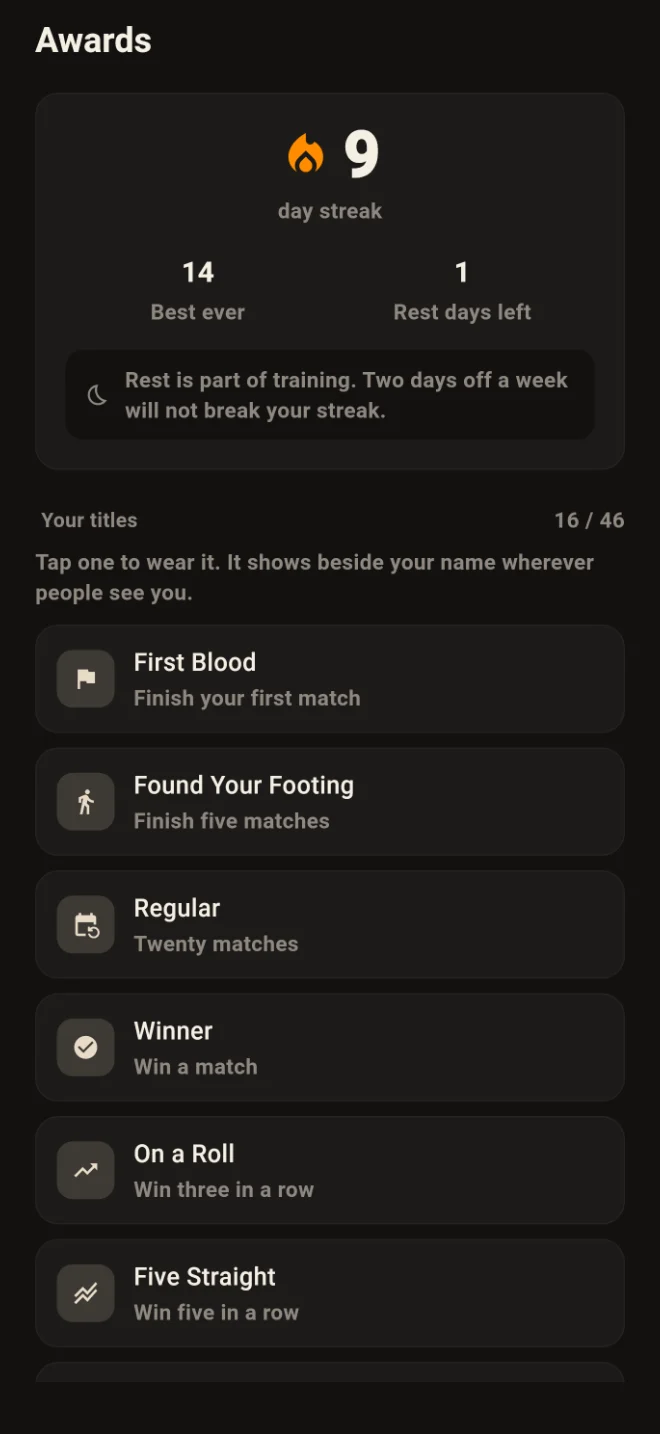
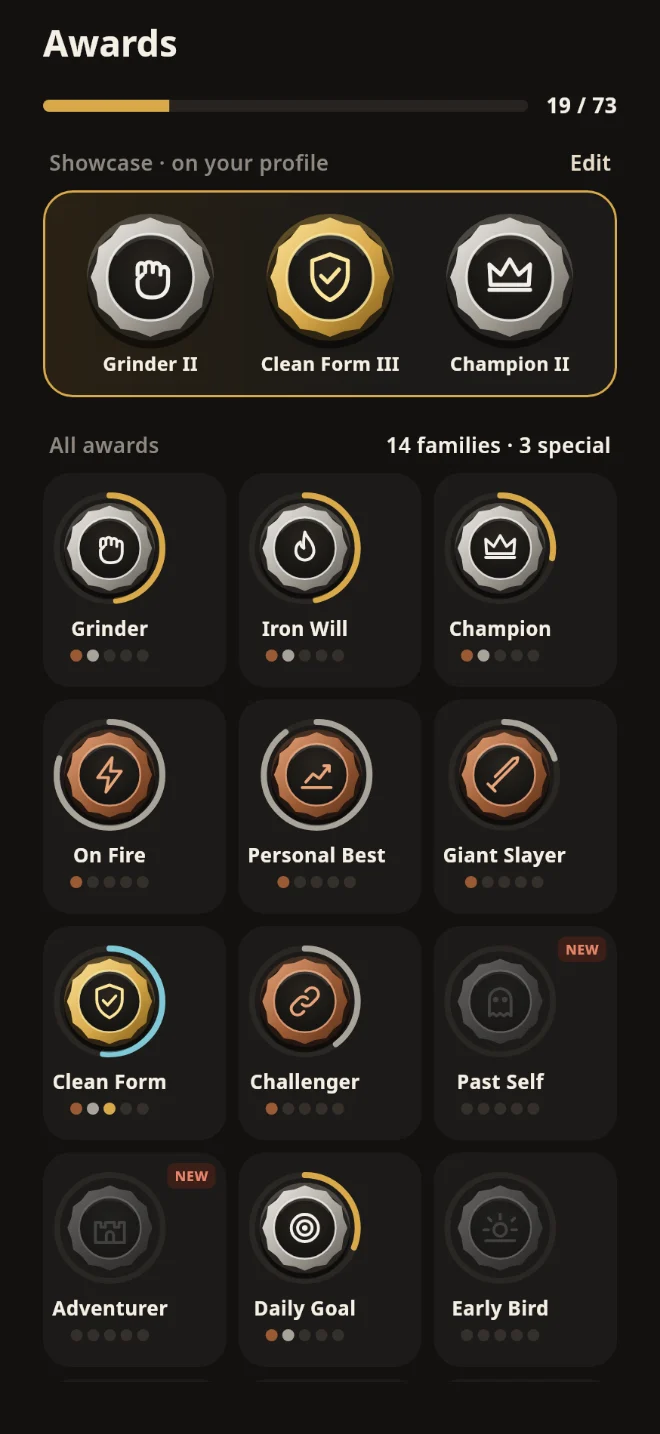
Site: a new link preview, the awards as medals, and the rating in the description
- The preview shared links show is og-2.jpg, a new name so apps fetch it
  again: the first screen as it is now, with the live match, the rating,
  the plan, the challenge link and the level. The old one said +7 LP.
  Profile links fall back to it too.
- The Titles tile is Awards now: fourteen families from Bronze to Diamond,
  three rare ones, and three pinned to the profile. The gallery shows the
  new cabinet.
- The description says rating, not rank points.
- The privacy page names the awards a lifter pins, which other players
  see.

diff --git a/index.html b/index.html
@@ -12,18 +12,18 @@
   <meta property="og:type" content="website">
   <meta property="og:url" content="https://www.outrepd.com/">
   <meta property="og:title" content="OUTREPD: Live 1v1 Push-Up Challenge App">
-  <meta property="og:description" content="Race real people at push-ups for 60 seconds. Your phone's camera counts every full rep, and the winner takes the rank points.">
+  <meta property="og:description" content="Race real people at push-ups for 60 seconds. Your phone's camera counts every full rep, and the winner takes the rating.">
   <meta property="og:site_name" content="OUTREPD">
   <meta name="twitter:title" content="OUTREPD: Live 1v1 Push-Up Challenge App">
   <meta name="twitter:description" content="Race real people at push-ups for 60 seconds. Your phone's camera counts every full rep.">
-  <meta property="og:image" content="https://www.outrepd.com/assets/home/og.jpg">
+  <meta property="og:image" content="https://www.outrepd.com/assets/home/og-2.jpg">
   <meta property="og:image:width" content="1200">
   <meta property="og:image:height" content="630">
   <meta name="twitter:card" content="summary_large_image">
-  <meta name="twitter:image" content="https://www.outrepd.com/assets/home/og.jpg">
+  <meta name="twitter:image" content="https://www.outrepd.com/assets/home/og-2.jpg">
   <meta name="apple-itunes-app" content="app-id=6817853725">
   <script type="application/ld+json">
-  [{"@context":"https://schema.org","@type":"MobileApplication","name":"OUTREPD","alternateName":"OUTREPD: Push-Up Battles","operatingSystem":"iOS, Android","applicationCategory":"HealthApplication","applicationSubCategory":"Fitness game","inLanguage":["en","es","de","fr","it","pt","ru","tr","hi","id","ja","ko","zh"],"offers":{"@type":"Offer","price":"0","priceCurrency":"USD"},"description":"Live 1v1 push-up challenges counted by your phone's camera, a 140-level Adventure and a ranked ladder from Iron to Master.","image":"https://www.outrepd.com/assets/home/og.jpg","url":"https://www.outrepd.com/","installUrl":"https://apps.apple.com/app/id6817853725","publisher":{"@type":"Organization","name":"MK Labs"},"sameAs":["https://apps.apple.com/app/id6817853725","https://play.google.com/store/apps/details?id=com.outrepd.outrepd"]},{"@context":"https://schema.org","@type":"Organization","name":"OUTREPD","legalName":"MK Labs","url":"https://www.outrepd.com/","logo":"https://www.outrepd.com/assets/logo-icon.png","email":"support@outrepd.com"},{"@context":"https://schema.org","@type":"FAQPage","mainEntity":[{"@type":"Question","name":"Do I need any equipment?","acceptedAnswer":{"@type":"Answer","text":"Just your phone and some floor. Lean the phone against something low, facing you, so the camera can see your head, shoulders and hands."}},{"@type":"Question","name":"Does any video leave my phone?","acceptedAnswer":{"@type":"Answer","text":"No. Reps are counted on your phone, and the camera picture is never sent anywhere. In a live match the only thing your phone sends the other player is your rep count."}},{"@type":"Question","name":"What if nobody is online?","acceptedAnswer":{"@type":"Answer","text":"If nobody is found live within 15 seconds, you race a set another lifter recorded earlier, rep for rep. There is always someone to beat."}},{"@type":"Question","name":"How much does it cost?","acceptedAnswer":{"@type":"Answer","text":"Nothing. OUTREPD is free, with an ad when you leave the result of a game. You can also choose to watch a short video for a small reward: a match’s XP twice, a streak back, or a Pro look for a day. OUTREPD Pro, weekly or yearly, removes the ads and adds Pro looks for your lifter; it is billed by the App Store or Google Play, and you can cancel any time in your store account."}},{"@type":"Question","name":"Can I play with friends?","acceptedAnswer":{"@type":"Answer","text":"Yes. Invite a friend to a live match and they have a minute to join. Friend matches don't move your rank."}},{"@type":"Question","name":"Can I challenge someone who doesn’t have the app?","acceptedAnswer":{"@type":"Answer","text":"Yes. After a match, send your minute as a challenge link. Whoever opens it sees your count, and races it in the app at the pace you really did it. One try each, open for seven days, and no rank on the line."}},{"@type":"Question","name":"Who can play?","acceptedAnswer":{"@type":"Answer","text":"Anyone 13 or over, on iPhone or Android. Sign in with Apple or Google."}}]}]
+  [{"@context":"https://schema.org","@type":"MobileApplication","name":"OUTREPD","alternateName":"OUTREPD: Push-Up Battles","operatingSystem":"iOS, Android","applicationCategory":"HealthApplication","applicationSubCategory":"Fitness game","inLanguage":["en","es","de","fr","it","pt","ru","tr","hi","id","ja","ko","zh"],"offers":{"@type":"Offer","price":"0","priceCurrency":"USD"},"description":"Live 1v1 push-up challenges counted by your phone's camera, a 140-level Adventure and a ranked ladder from Iron to Master.","image":"https://www.outrepd.com/assets/home/og-2.jpg","url":"https://www.outrepd.com/","installUrl":"https://apps.apple.com/app/id6817853725","publisher":{"@type":"Organization","name":"MK Labs"},"sameAs":["https://apps.apple.com/app/id6817853725","https://play.google.com/store/apps/details?id=com.outrepd.outrepd"]},{"@context":"https://schema.org","@type":"Organization","name":"OUTREPD","legalName":"MK Labs","url":"https://www.outrepd.com/","logo":"https://www.outrepd.com/assets/logo-icon.png","email":"support@outrepd.com"},{"@context":"https://schema.org","@type":"FAQPage","mainEntity":[{"@type":"Question","name":"Do I need any equipment?","acceptedAnswer":{"@type":"Answer","text":"Just your phone and some floor. Lean the phone against something low, facing you, so the camera can see your head, shoulders and hands."}},{"@type":"Question","name":"Does any video leave my phone?","acceptedAnswer":{"@type":"Answer","text":"No. Reps are counted on your phone, and the camera picture is never sent anywhere. In a live match the only thing your phone sends the other player is your rep count."}},{"@type":"Question","name":"What if nobody is online?","acceptedAnswer":{"@type":"Answer","text":"If nobody is found live within 15 seconds, you race a set another lifter recorded earlier, rep for rep. There is always someone to beat."}},{"@type":"Question","name":"How much does it cost?","acceptedAnswer":{"@type":"Answer","text":"Nothing. OUTREPD is free, with an ad when you leave the result of a game. You can also choose to watch a short video for a small reward: a match’s XP twice, a streak back, or a Pro look for a day. OUTREPD Pro, weekly or yearly, removes the ads and adds Pro looks for your lifter; it is billed by the App Store or Google Play, and you can cancel any time in your store account."}},{"@type":"Question","name":"Can I play with friends?","acceptedAnswer":{"@type":"Answer","text":"Yes. Invite a friend to a live match and they have a minute to join. Friend matches don't move your rank."}},{"@type":"Question","name":"Can I challenge someone who doesn’t have the app?","acceptedAnswer":{"@type":"Answer","text":"Yes. After a match, send your minute as a challenge link. Whoever opens it sees your count, and races it in the app at the pace you really did it. One try each, open for seven days, and no rank on the line."}},{"@type":"Question","name":"Who can play?","acceptedAnswer":{"@type":"Answer","text":"Anyone 13 or over, on iPhone or Android. Sign in with Apple or Google."}}]}]
   </script>
   <link rel="preconnect" href="https://fonts.googleapis.com">
   <link rel="preconnect" href="https://fonts.gstatic.com" crossorigin>
@@ -190,9 +190,9 @@
           </div>
 
           <div class="tile tile--third">
-            <span class="tag">Titles</span>
-            <h3>Wear what you earn.</h3>
-            <p>From First Blood to Giant Slayer. Pick one and it shows beside your name.</p>
+            <span class="tag">Awards</span>
+            <h3>Medals in five metals.</h3>
+            <p>Fourteen families, from Grinder to Giant Slayer, each from Bronze to Diamond, and three rare ones. Pin your best three to your profile and wear any as your title.</p>
           </div>
         </div>
       </div>
@@ -262,7 +262,7 @@
           <figure><div class="phone"><div class="phone__glow" aria-hidden="true"><img width="660" height="1434" src="/assets/home/won.webp" alt="" loading="lazy"></div><div class="phone__body"><div class="phone__screen"><span class="phone__island"></span><img width="660" height="1434" src="/assets/home/won.webp" alt="The result after a win" loading="lazy"></div></div></div><figcaption>A win</figcaption></figure>
           <figure><div class="phone"><div class="phone__glow" aria-hidden="true"><img width="660" height="1434" src="/assets/home/home.webp" alt="" loading="lazy"></div><div class="phone__body"><div class="phone__screen"><span class="phone__island"></span><img width="660" height="1434" src="/assets/home/home.webp" alt="The home screen: your rank, the streak, today's goal and Adventure" loading="lazy"></div></div></div><figcaption>Your day</figcaption></figure>
           <figure><div class="phone"><div class="phone__glow" aria-hidden="true"><img width="660" height="1434" src="/assets/home/profile.webp" alt="" loading="lazy"></div><div class="phone__body"><div class="phone__screen"><span class="phone__island"></span><img width="660" height="1434" src="/assets/home/profile.webp" alt="A profile: level, best set, record and place" loading="lazy"></div></div></div><figcaption>Your profile</figcaption></figure>
-          <figure><div class="phone"><div class="phone__glow" aria-hidden="true"><img width="660" height="1434" src="/assets/home/awards.webp" alt="" loading="lazy"></div><div class="phone__body"><div class="phone__screen"><span class="phone__island"></span><img width="660" height="1434" src="/assets/home/awards.webp" alt="Titles earned and the ones still to win" loading="lazy"></div></div></div><figcaption>Titles</figcaption></figure>
+          <figure><div class="phone"><div class="phone__glow" aria-hidden="true"><img width="660" height="1434" src="/assets/home/awards.webp" alt="" loading="lazy"></div><div class="phone__body"><div class="phone__screen"><span class="phone__island"></span><img width="660" height="1434" src="/assets/home/awards.webp" alt="The awards cabinet: the three pinned to the profile, and every family's medal" loading="lazy"></div></div></div><figcaption>Awards</figcaption></figure>
         </div>
       </div>
     </section>

diff --git a/privacy/index.html b/privacy/index.html
@@ -12,9 +12,9 @@
   <meta property="og:url" content="https://www.outrepd.com/privacy">
   <meta property="og:title" content="Privacy Policy — OUTREPD">
   <meta property="og:description" content="Read the Privacy Policy and learn how OUTREPD protects your personal data.">
-  <meta property="og:image" content="https://www.outrepd.com/assets/home/og.jpg">
+  <meta property="og:image" content="https://www.outrepd.com/assets/home/og-2.jpg">
   <meta name="twitter:card" content="summary_large_image">
-  <meta name="twitter:image" content="https://www.outrepd.com/assets/home/og.jpg">
+  <meta name="twitter:image" content="https://www.outrepd.com/assets/home/og-2.jpg">
 
   <!-- Google Fonts: Inter -->
   <link rel="preconnect" href="https://fonts.googleapis.com">
@@ -185,7 +185,7 @@
       <p><strong>In the European Economic Area, the UK and Switzerland,</strong> Google's consent form asks you before the first ad, and you can refuse personalised ads there.</p>
 
       <h2>What other people can see</h2>
-      <p>Other players can see your username, photo, rank, record, best set, streak, the title you wear, your leaderboard places and your month awards. You can hide yourself from the leaderboards, and hide your country, in Settings → Privacy. Anyone with your share link can see your share card without signing in. Anyone with a challenge link you send can see your username, picture, the count to beat and the usernames and counts of everybody who took it, without signing in. Your email address is never shown to anyone.</p>
+      <p>Other players can see your username, photo, rank, record, best set, streak, the title you wear, the awards you pin to your profile, your leaderboard places and your month awards. You can hide yourself from the leaderboards, and hide your country, in Settings → Privacy. Anyone with your share link can see your share card without signing in. Anyone with a challenge link you send can see your username, picture, the count to beat and the usernames and counts of everybody who took it, without signing in. Your email address is never shown to anyone.</p>
 
       <h2>Sharing</h2>
       <p>We do not sell your data. Apart from the ads described under <a href="#ads">Ads</a>, we do not share it for advertising. We use these service providers:</p>

diff --git a/c/index.html b/c/index.html
@@ -11,11 +11,11 @@
   <meta property="og:title" content="OUTREPD — Can you beat it?">
   <meta property="og:description" content="A push-up challenge on OUTREPD: race their minute, counted by your phone's camera.">
   <meta property="og:type" content="website">
-  <meta property="og:image" content="https://www.outrepd.com/assets/home/og.jpg">
+  <meta property="og:image" content="https://www.outrepd.com/assets/home/og-2.jpg">
   <meta property="og:image:width" content="1200">
   <meta property="og:image:height" content="630">
   <meta name="twitter:card" content="summary_large_image">
-  <meta name="twitter:image" content="https://www.outrepd.com/assets/home/og.jpg">
+  <meta name="twitter:image" content="https://www.outrepd.com/assets/home/og-2.jpg">
   <!-- On an iPhone with the app, Safari's banner opens this challenge in it. -->
   <meta name="apple-itunes-app" content="app-id=6817853725" id="itunes-banner">
 

diff --git a/u/index.html b/u/index.html
@@ -15,11 +15,11 @@
   <meta property="og:title" content="OUTREPD — Duel me">
   <meta property="og:description" content="Live 1v1 push-up showdowns decided by your camera. See their rank, then duel them.">
   <meta property="og:type" content="website">
-  <meta property="og:image" content="https://www.outrepd.com/assets/home/og.jpg">
+  <meta property="og:image" content="https://www.outrepd.com/assets/home/og-2.jpg">
   <meta property="og:image:width" content="1200">
   <meta property="og:image:height" content="630">
   <meta name="twitter:card" content="summary_large_image">
-  <meta name="twitter:image" content="https://www.outrepd.com/assets/home/og.jpg">
+  <meta name="twitter:image" content="https://www.outrepd.com/assets/home/og-2.jpg">
 
   <link rel="preconnect" href="https://fonts.googleapis.com">
   <link rel="preconnect" href="https://fonts.gstatic.com" crossorigin>

diff --git a/contact/index.html b/contact/index.html
@@ -12,9 +12,9 @@
   <meta property="og:url" content="https://www.outrepd.com/contact">
   <meta property="og:title" content="Contact Us — OUTREPD">
   <meta property="og:description" content="Get in touch with the OUTREPD team. Reach us at support@outrepd.com for questions, feedback, or support.">
-  <meta property="og:image" content="https://www.outrepd.com/assets/home/og.jpg">
+  <meta property="og:image" content="https://www.outrepd.com/assets/home/og-2.jpg">
   <meta name="twitter:card" content="summary_large_image">
-  <meta name="twitter:image" content="https://www.outrepd.com/assets/home/og.jpg">
+  <meta name="twitter:image" content="https://www.outrepd.com/assets/home/og-2.jpg">
 
   <!-- Google Fonts: Inter -->
   <link rel="preconnect" href="https://fonts.googleapis.com">

diff --git a/terms/index.html b/terms/index.html
@@ -12,9 +12,9 @@
   <meta property="og:url" content="https://www.outrepd.com/terms">
   <meta property="og:title" content="Terms of Use — OUTREPD">
   <meta property="og:description" content="Read the Terms of Use and Legal Terms for OUTREPD.">
-  <meta property="og:image" content="https://www.outrepd.com/assets/home/og.jpg">
+  <meta property="og:image" content="https://www.outrepd.com/assets/home/og-2.jpg">
   <meta name="twitter:card" content="summary_large_image">
-  <meta name="twitter:image" content="https://www.outrepd.com/assets/home/og.jpg">
+  <meta name="twitter:image" content="https://www.outrepd.com/assets/home/og-2.jpg">
 
   <!-- Google Fonts: Inter -->
   <link rel="preconnect" href="https://fonts.googleapis.com">

diff --git a/api/og.js b/api/og.js
@@ -169,7 +169,7 @@ module.exports = async function handler(req, res) {
     if (!card) {
       // Nobody by that name: the site's own picture.
       res.statusCode = 302;
-      res.setHeader('Location', '/assets/home/og.jpg');
+      res.setHeader('Location', '/assets/home/og-2.jpg');
       res.end();
       return;
     }
@@ -182,7 +182,7 @@ module.exports = async function handler(req, res) {
   } catch (error) {
     console.error('og', username, error);
     res.statusCode = 302;
-    res.setHeader('Location', '/assets/home/og.jpg');
+    res.setHeader('Location', '/assets/home/og-2.jpg');
     res.end();
   }
 };
